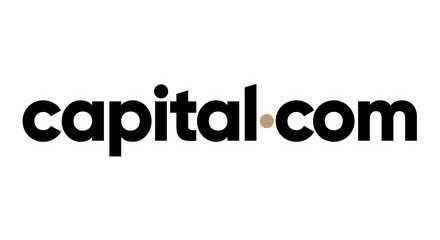
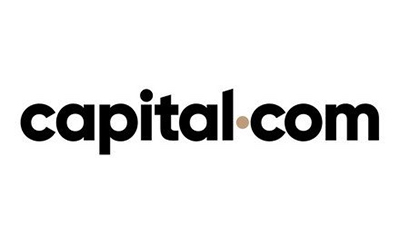
fixed news item images

diff --git a/collections/_news/2022-03-17-capital-com.md b/collections/_news/2022-03-17-capital-com.md
@@ -2,7 +2,7 @@
 title:  "Ukraine’s legalisation of crypto can protect assets: Analysts"
 weblink: "https://capital.com/ukraine-s-legalisation-of-crypto-can-protect-assets"
 date:   2022-03-17 21:00:00
-thumbnail: "/assets/capital-com.png"
+thumbnail: "/assets/capital-com.jpg"
 source: capital.com
 jumbotron: false
 ---

diff --git a/collections/_news/2022-03-21-fox-business.md b/collections/_news/2022-03-21-fox-business.md
@@ -2,7 +2,7 @@
 title:  "Crypto is not a sanctions escape for Russia: Chia Network COO"
 weblink: "https://video.foxbusiness.com/v/6301406586001#sp=show-clips"
 date:   2022-03-21
-thumbnail: "/assets/fox-business.png"
+thumbnail: "/assets/fox-business.jpg"
 source: foxbusiness.com
 jumbotron: false
 ---
